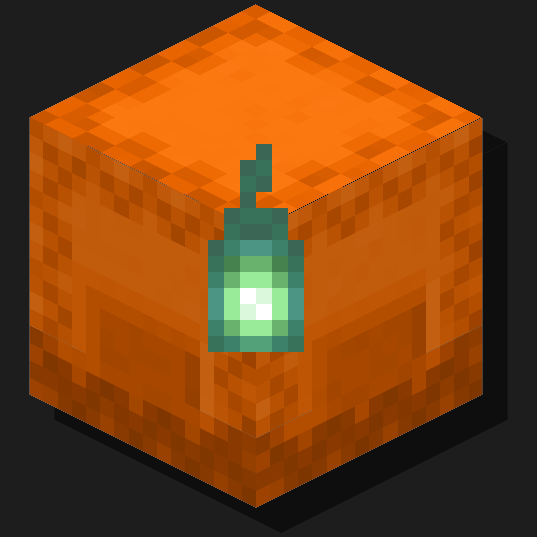
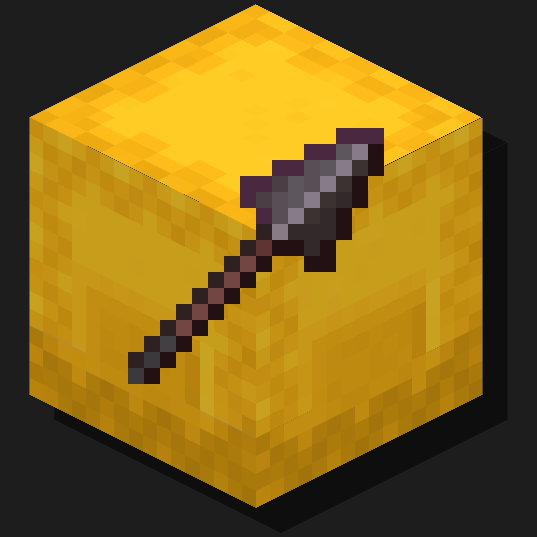
oop forgot to commit this

diff --git a/CHANGELOG.md b/CHANGELOG.md
@@ -1,3 +1,2 @@
-# Changelog(hotfix)
-- fix pack format version
-- fix discord notif
+# Changelog(hotfix cuz im dumb)
+- fix pack.png
